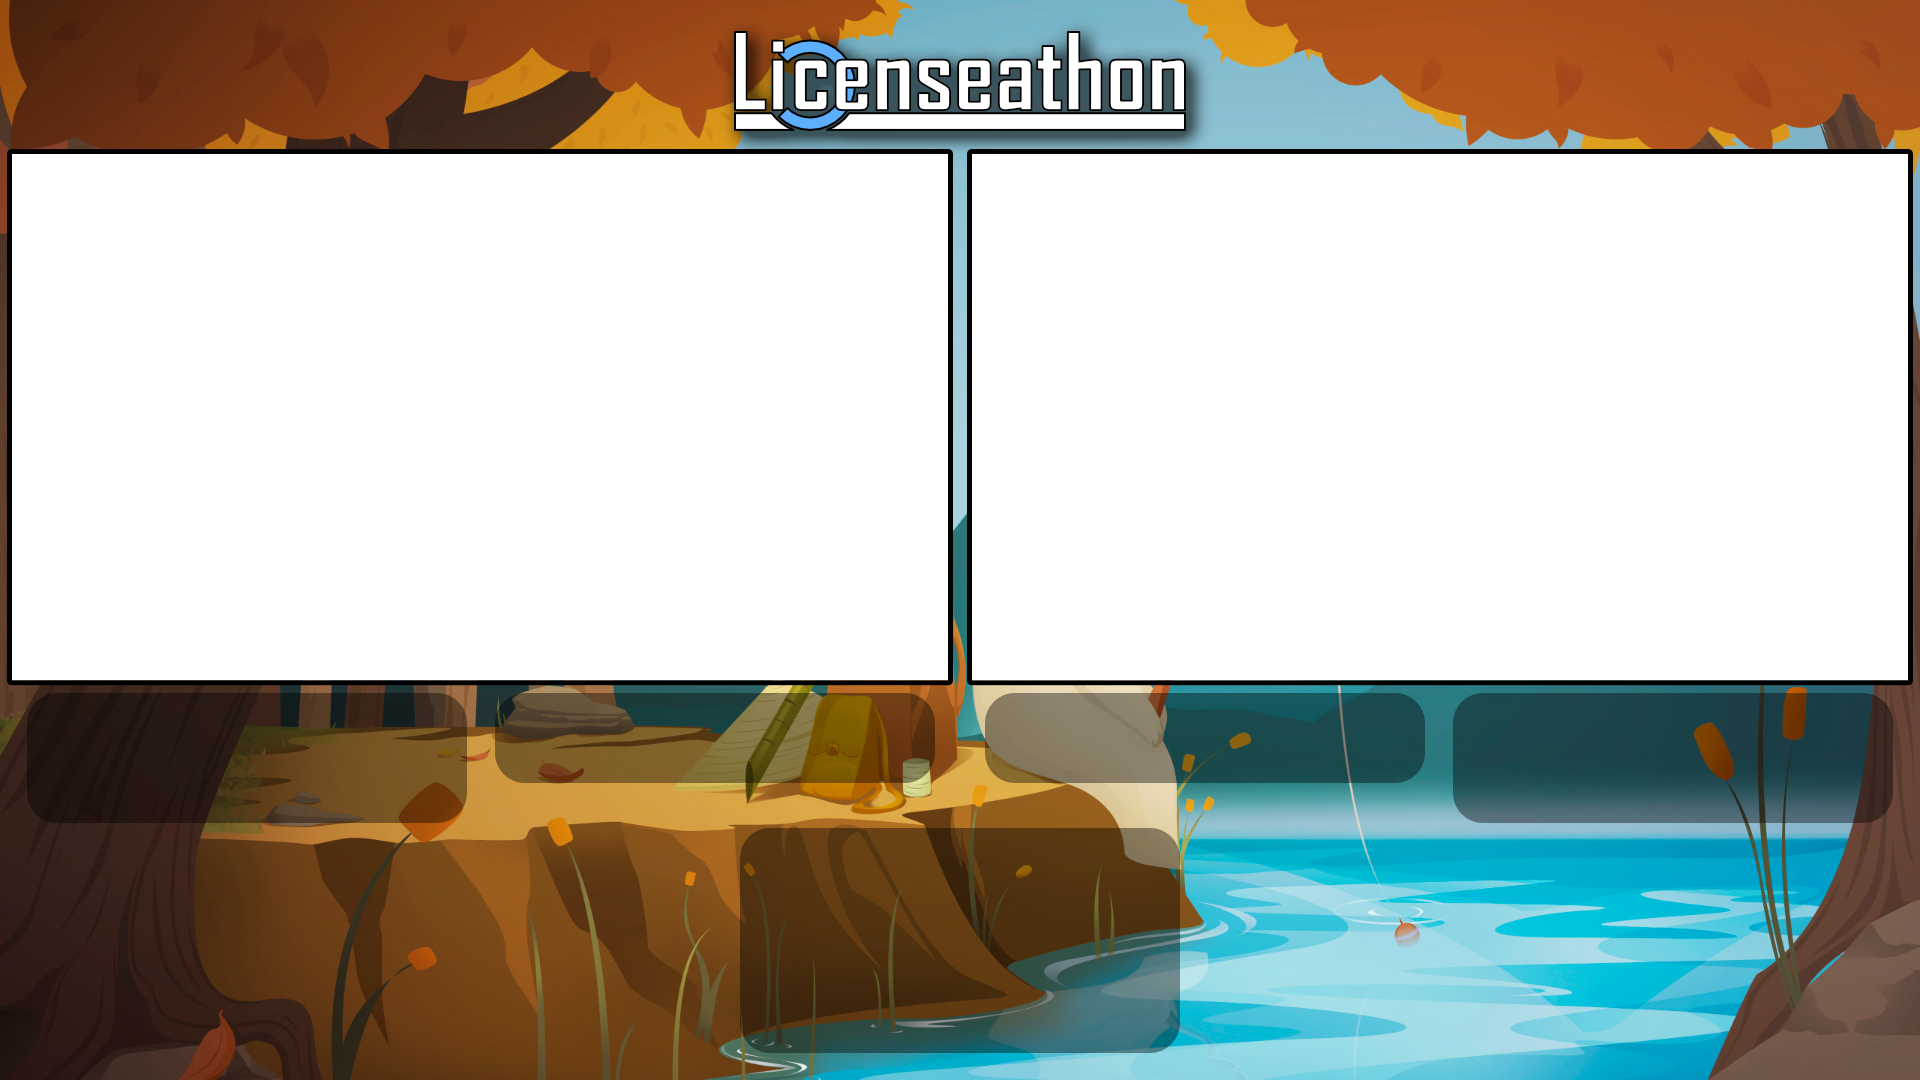
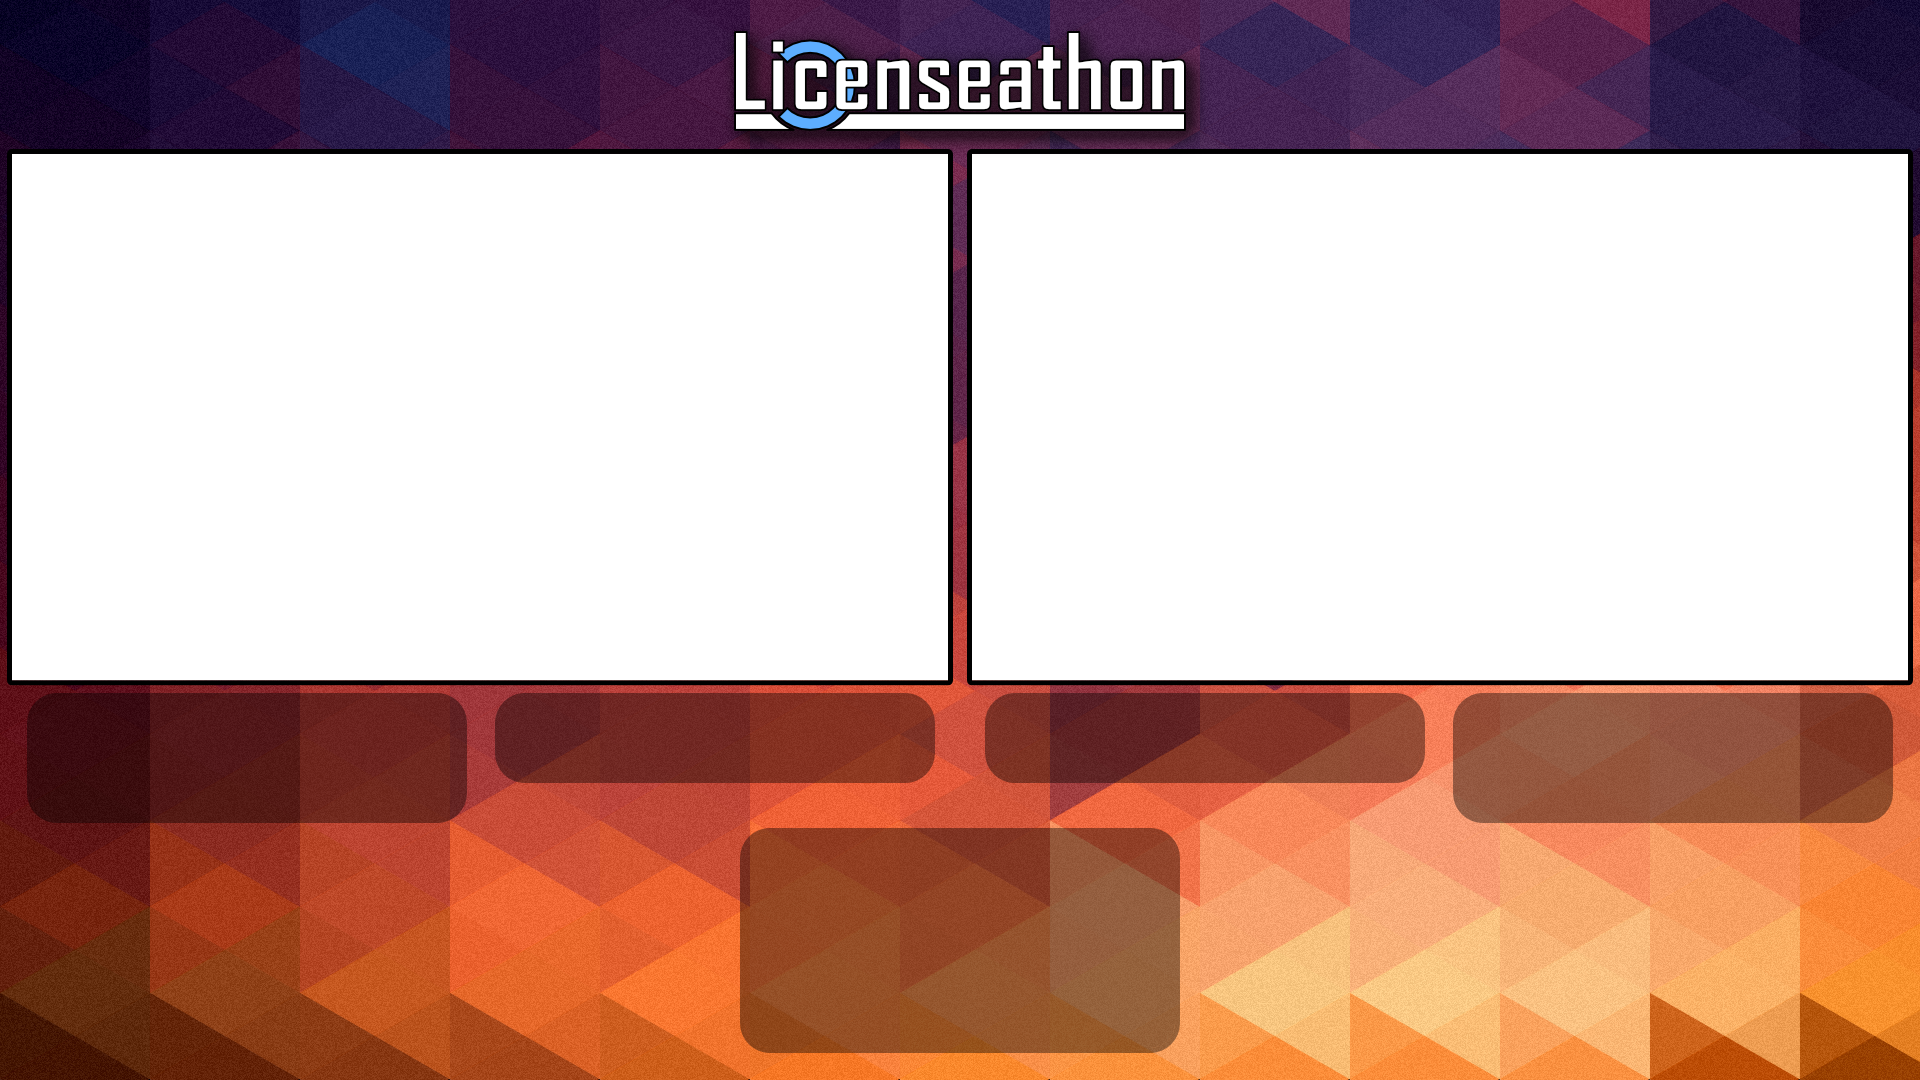
Added splash screen

diff --git a/graphics/css/layouts/splash-screen.css b/graphics/css/layouts/splash-screen.css
@@ -1,0 +1,96 @@
+@font-face {
+	font-family: 'Agency FB Bold';
+	src: url('../fonts/agency-fb-bold.ttf') format('truetype');
+}
+
+/* Custom Colours */
+:root {
+	--RichBlack: #050505;
+	--Blue: #3F88C5;
+	--LightBlue: #97BDDA;
+	--LightGrey: #EEF1EF;
+	--Orange: #F18F01;
+	--Red: #A4243B;
+}
+
+#backgroundImage {
+	position: fixed;
+	overflow: hidden;
+	margin: 0;
+	padding: 0;
+	background-image: url('../../img/layouts/background.png');
+	background-repeat: no-repeat;
+	background-size: cover;
+	width: 1920px;
+	height: 1080px;
+}
+
+#logo {
+	position: fixed;
+	/* overflow: hidden; */
+	margin: 0;
+	padding: 0;
+	background-image: url('../../img/logo-wide.png');
+	background-repeat: no-repeat;
+  background-size: contain;
+  background-size: contain;
+	width: 800px;
+  height: 480px;
+  z-index: 10;
+
+	animation: moveOverlay 6s ease-in-out 0s infinite alternate;
+}
+
+#logo:after {
+  font-family: "Agency FB Bold";
+  font-size: 144px;
+  color: white;
+  text-shadow: 3px 3px 10px rgba(0,0,0,.8);
+  -webkit-text-stroke: black 1.5px;
+  padding-block-start: .5em;
+  content: "2020";
+}
+
+@keyframes moveOverlay {
+	from {
+		transform: translateY(-20px);
+	}
+
+	to {
+		transform: translateY(20px);
+	}
+}
+
+#jokeContainer {
+	position: absolute;
+	left: 38vw;
+	bottom: 300px;
+	width: 600px;
+	height: 80px;
+
+	text-align: center;
+	color: white;
+	font-size: 42px;
+	letter-spacing: -2px;
+	-webkit-text-stroke: 2px black;
+
+	animation: rotateJoke 12s ease-in-out 0s infinite alternate;
+}
+
+@keyframes rotateJoke {
+	0% {
+		transform: rotateZ(-1deg) scale(0.975);
+	}
+	25% {
+		transform: rotateZ(0deg) scale(1.025);
+	}
+	50% {
+		transform: rotateZ(1deg) scale(0.975);
+	}
+	75% {
+		transform: rotateZ(0deg) scale(1.025);
+	}
+	100% {
+		transform: rotateZ(-1deg) scale(0.975);
+	}
+}

diff --git a/graphics/splash-screen.html b/graphics/splash-screen.html
@@ -1,0 +1,26 @@
+<!DOCTYPE html>
+<html data-sceneid="1p">
+	<head>
+		<meta charset="UTF-8">
+		
+		<!-- CSS -->
+		<link href="css/common.css" rel="stylesheet"/>
+		<link href="css/layouts/splash-screen.css" rel="stylesheet"/>
+		
+		<!-- JavaScript
+		<script src="../bower_components/jquery/dist/jquery.min.js"></script>
+		<script src="../bower_components/letteringjs/jquery.lettering.js"></script>
+		<script src="js/fittext.js"></script>
+		<script src="js/animation.js"></script>
+		<script src="js/setup-info.js"></script>
+		<script src="js/player-images.js"></script>
+		<script src="js/timer.js"></script> -->
+	</head>
+	<body>
+		<!-- Background image -->
+		<div id="backgroundImage"></div>
+
+		<!-- Logo -->
+		<div id="logo" class="flexContainer"></div>
+	</body>
+</html>
